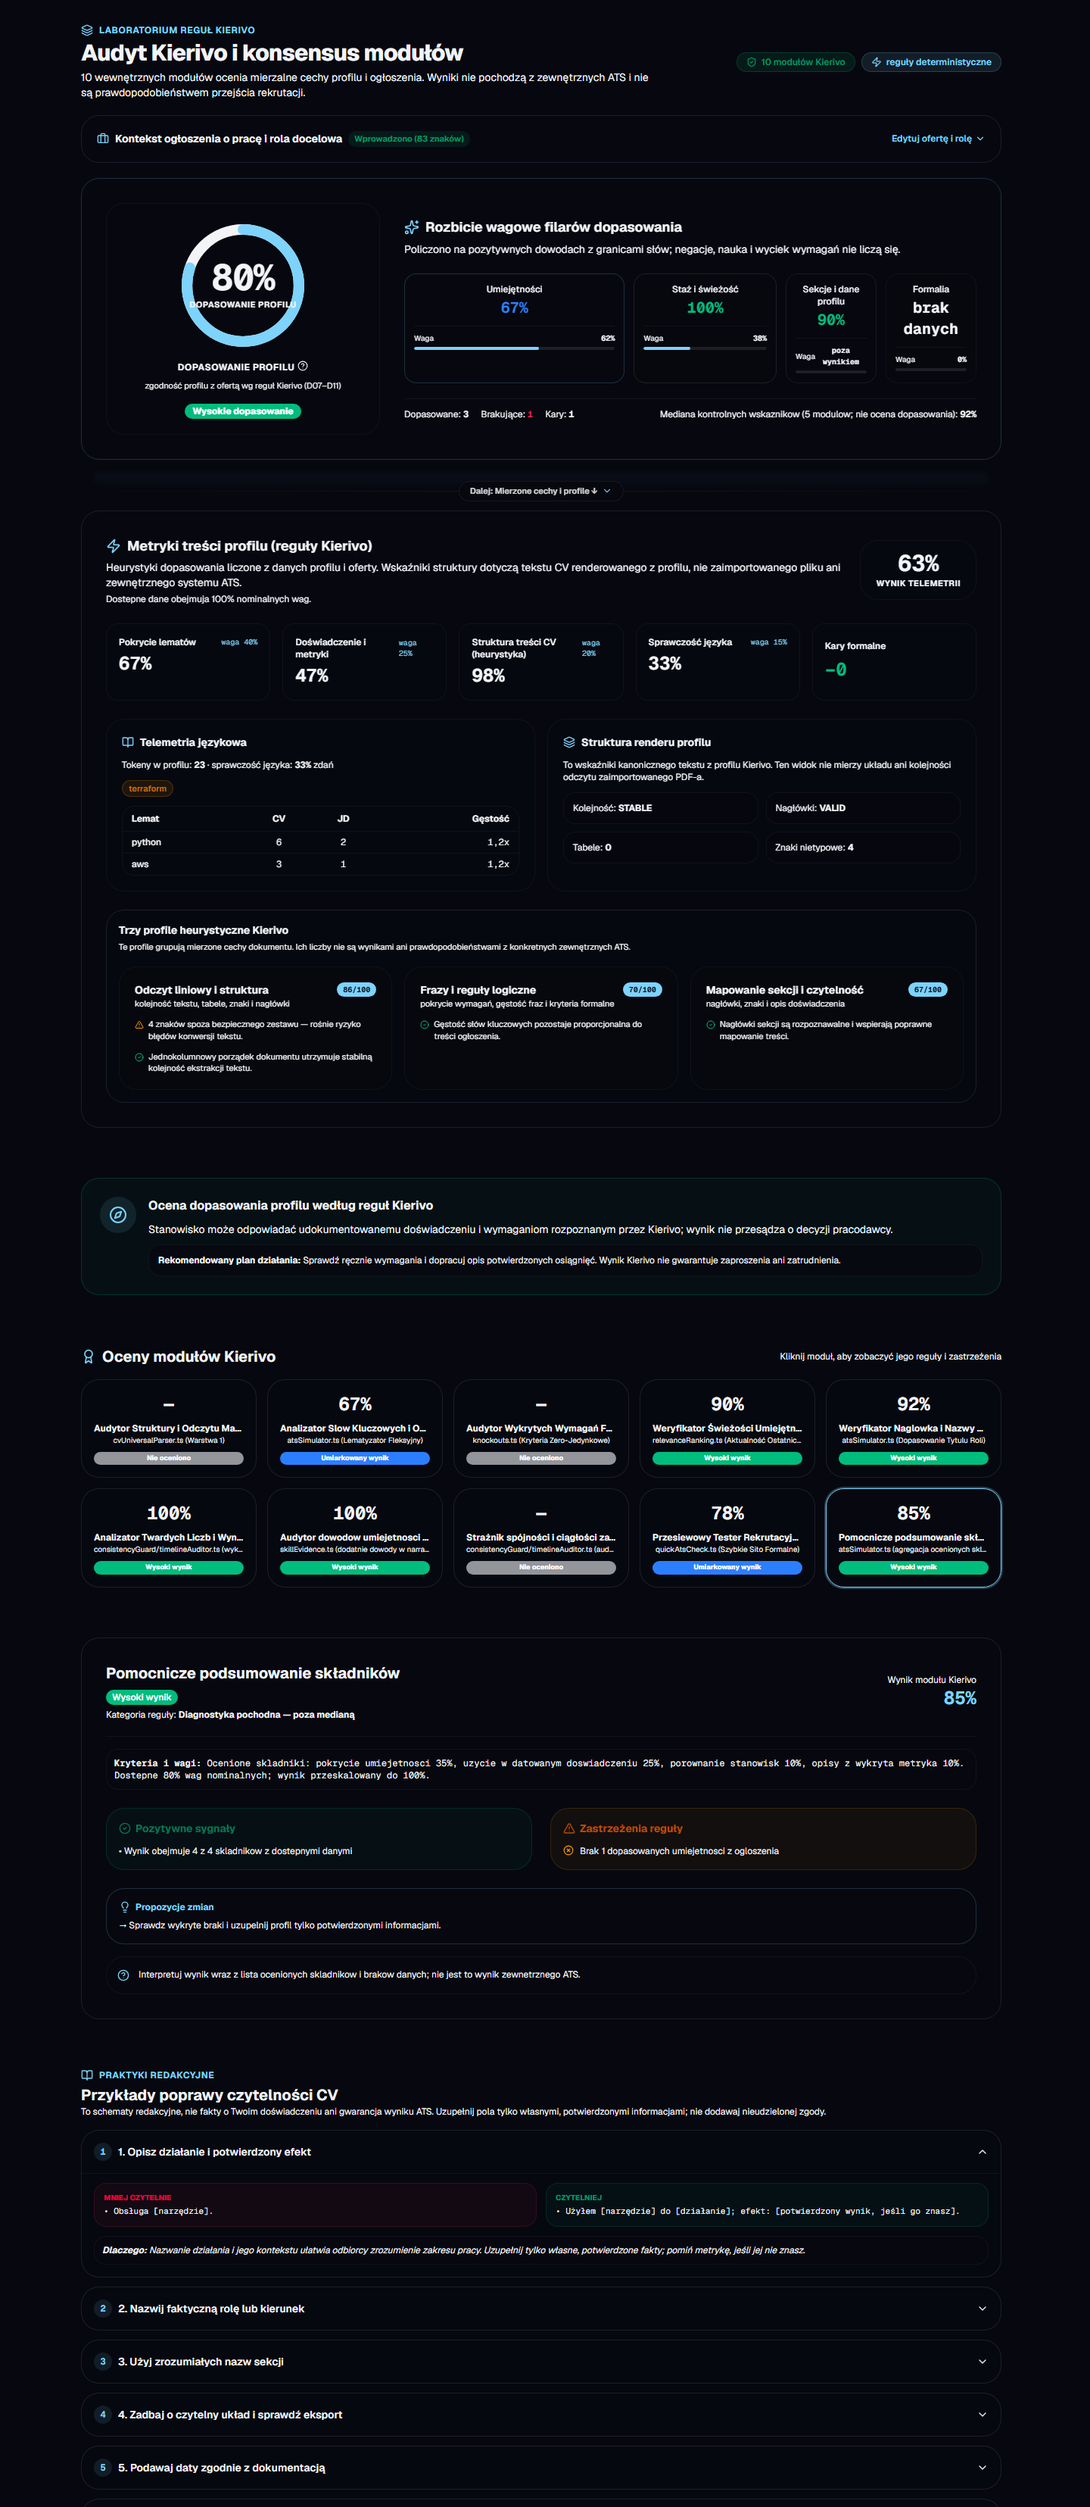
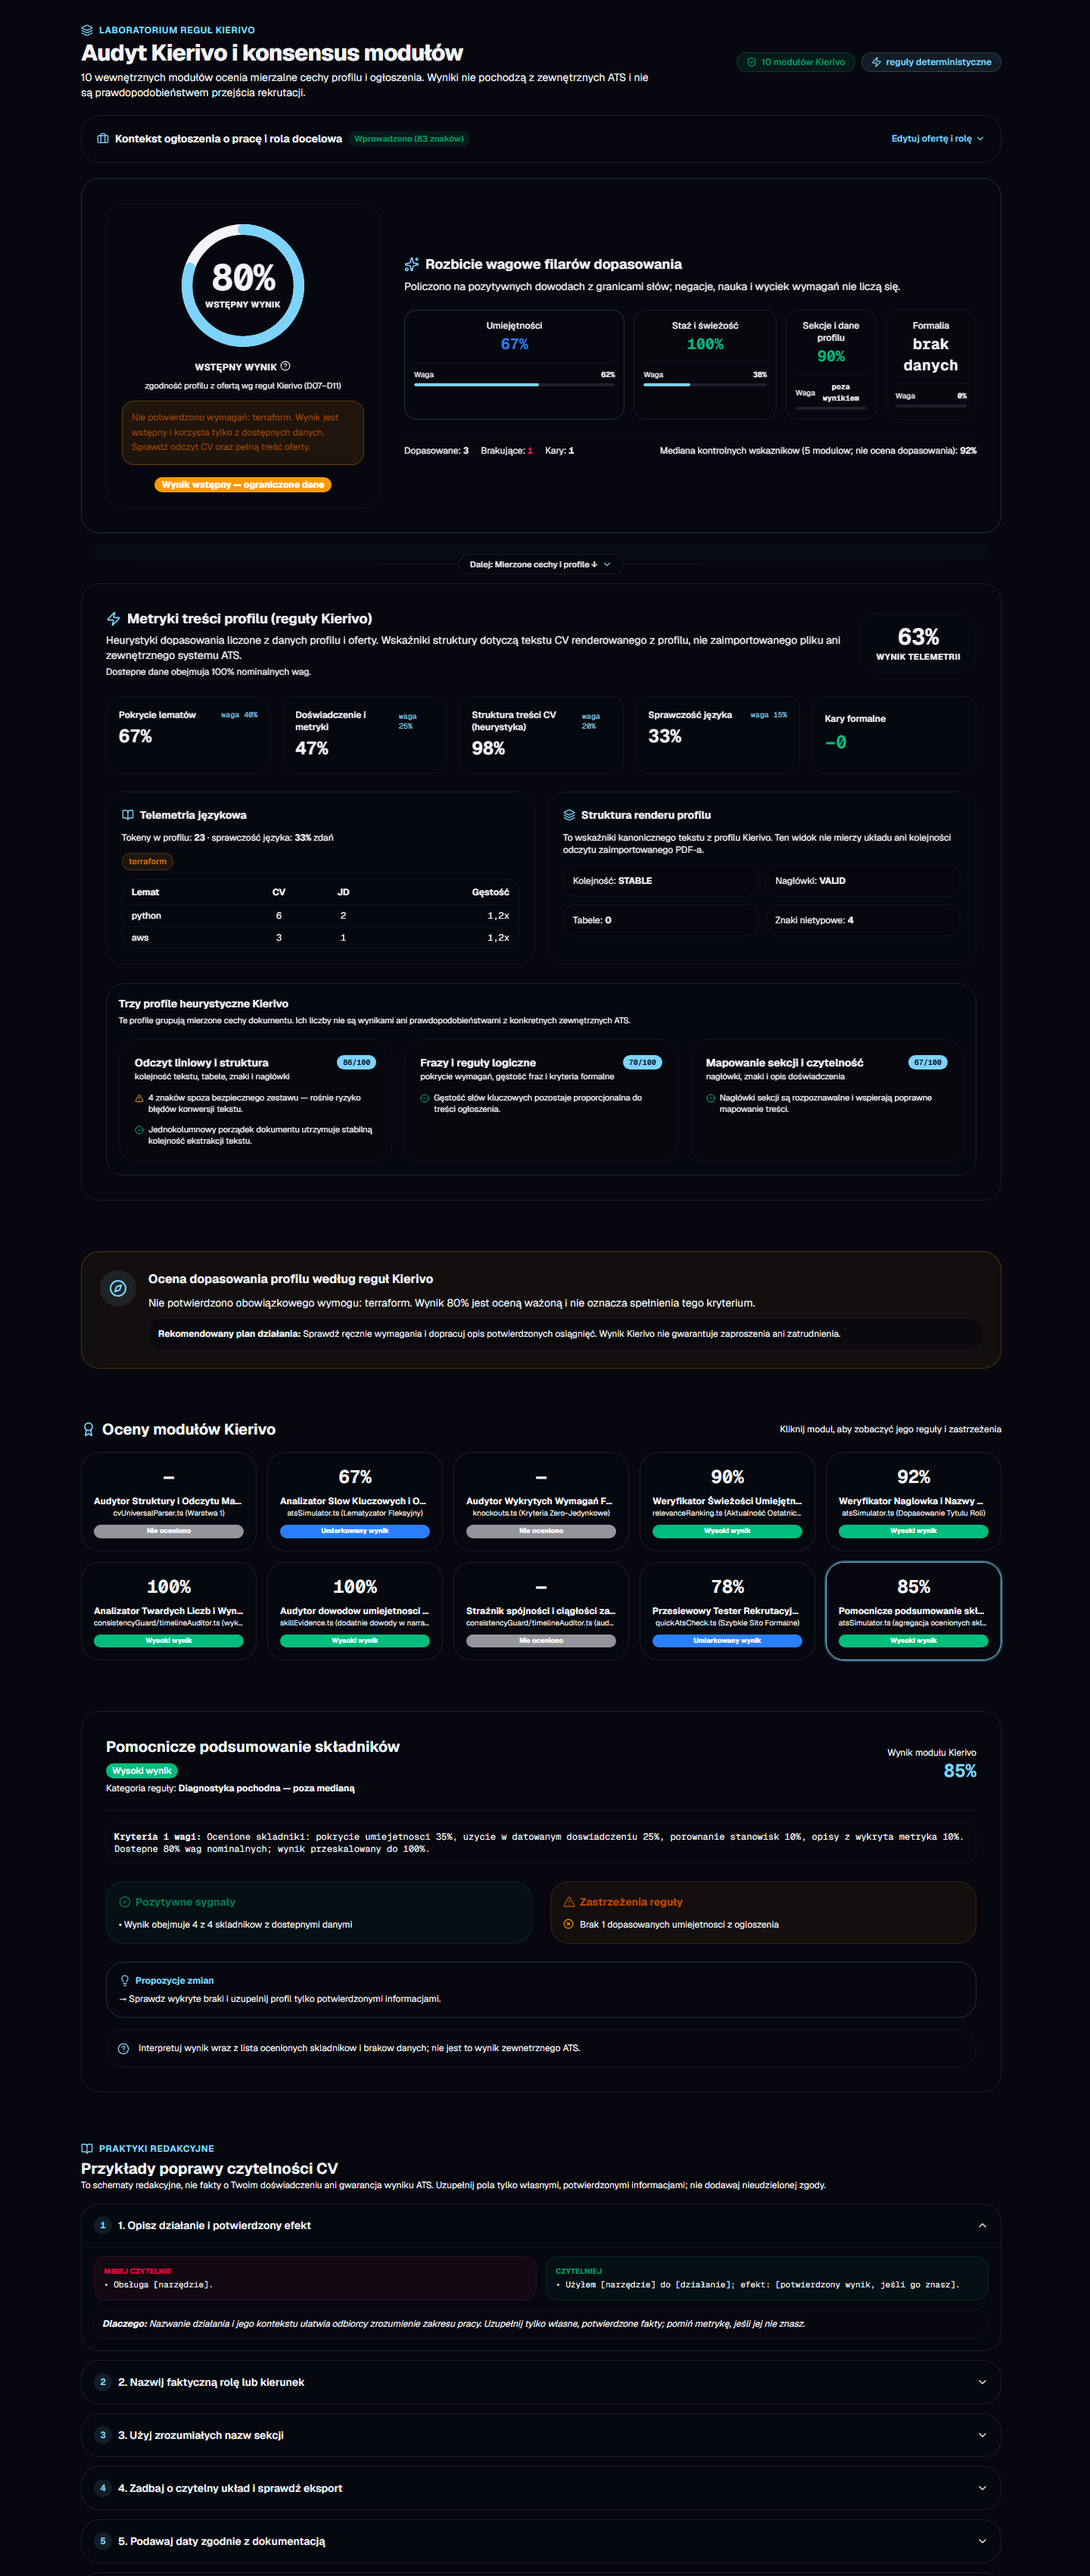
fix(ats): surface required skill gaps before positive fit labels

diff --git a/src/features/ats/AtsLabView.tsx b/src/features/ats/AtsLabView.tsx
@@ -21,7 +21,7 @@ import {
 import { MasterVault } from '../../types';
 import { simulateMultiEngineATS, AtsEngineResult } from '../../lib/atsSimulator';
 import { scoreCanonicalAts, getCanonicalScoreBand, CANONICAL_SCORE_BAND_LABELS, getUnmetBlockingRequirements } from '../../lib/canonicalAts';
-import { getCanonicalScoreMetricLabel, hasLimitedMatchEvidence } from '../../lib/matchInterpretation';
+import { getCanonicalScoreMetricLabel, getMatchInterpretation, hasLimitedMatchEvidence } from '../../lib/matchInterpretation';
 import { measureVaultCompleteness } from '../../lib/vaultCompleteness';
 import { formatDecimalPl } from '../../lib/pluralFormat';
 import { buildAtsTelemetryReport, STUFFING_DENSITY_THRESHOLD } from '../../lib/atsScorer';
@@ -155,11 +155,12 @@ export const AtsLabView: React.FC<AtsLabViewProps> = ({
   const scoreBand = isScorable ? getCanonicalScoreBand(scorableScore) : null;
   const profileCoverage = measureVaultCompleteness(vault).percent;
   const detectedRequirementCount = canonical.matchedRequirements.length + canonical.missingRequirements.length + canonical.unconfirmedRequirements.length;
+  const blockingRequirements = getUnmetBlockingRequirements(canonical);
   const limitedMatchEvidence = hasLimitedMatchEvidence({
     profileCompleteness: profileCoverage,
     totalRequirementCount: detectedRequirementCount,
     fitEvidenceAvailable: consensus.careerFitAdvice.assessment !== 'INSUFFICIENT_EVIDENCE',
-    blockingRequirements: getUnmetBlockingRequirements(canonical),
+    blockingRequirements,
     unconfirmedRequirements: canonical.unconfirmedRequirements,
   });
 
@@ -379,6 +380,7 @@ export const AtsLabView: React.FC<AtsLabViewProps> = ({
                 {canonical.unconfirmedRequirements.length > 0 && <>
                   Nie można potwierdzić: {canonical.unconfirmedRequirements.join(', ')}. Brak danych nie oznacza spełnienia ani niespełnienia tych wymogów.{' '}
                 </>}
+                {blockingRequirements.length > 0 && <>Nie potwierdzono wymagań: {blockingRequirements.join(', ')}. </>}
                 Wynik jest wstępny i korzysta tylko z dostępnych danych. Sprawdź odczyt CV oraz pełną treść oferty.
               </p>
             )}
@@ -408,7 +410,7 @@ export const AtsLabView: React.FC<AtsLabViewProps> = ({
               </span>
             ) : (
               <span className={`mt-4 rounded-full px-2.5 py-0.5 text-xs font-extrabold text-white ${
-                scoreBand === 'high' ? 'bg-emerald-500' : scoreBand === 'moderate' ? 'bg-blue-500' : 'bg-amber-500'
+                limitedMatchEvidence ? 'bg-amber-500' : scoreBand === 'high' ? 'bg-emerald-500' : scoreBand === 'moderate' ? 'bg-blue-500' : 'bg-amber-500'
               }`}>
                 {limitedMatchEvidence
                   ? 'Wynik wstępny — ograniczone dane'
@@ -639,7 +641,7 @@ export const AtsLabView: React.FC<AtsLabViewProps> = ({
       {isScorable && <>
       <ScrollContinuationHint targetId="ocena-dopasowania" label="Dalej: Ocena dopasowania profilu ↓" />
 
-      <div id="ocena-dopasowania" className={`scroll-mt-24 rounded-3xl border p-6 ${consensus.careerFitAdvice.assessment === 'PLAUSIBLE_FIT' ? 'border-emerald-500/20 bg-emerald-500/5' : consensus.careerFitAdvice.assessment === 'INSUFFICIENT_EVIDENCE' ? 'border-line bg-surface/60' : 'border-amber-500/25 bg-amber-500/5'}`}>
+      <div id="ocena-dopasowania" className={`scroll-mt-24 rounded-3xl border p-6 ${limitedMatchEvidence ? 'border-amber-500/25 bg-amber-500/5' : 'border-line bg-surface/60'}`}>
         <div className="flex items-start gap-4">
           <div className="rounded-2xl bg-brand/10 p-3 text-brand-fg"><Compass className="h-6 w-6" /></div>
           <div className="flex-1 space-y-2">
@@ -647,7 +649,12 @@ export const AtsLabView: React.FC<AtsLabViewProps> = ({
             {consensus.careerFitAdvice.assessment === 'INSUFFICIENT_EVIDENCE' && (
               <p className="text-xs font-semibold text-muted">Brak wystarczających danych o doświadczeniu</p>
             )}
-            <p className="text-sm leading-relaxed text-ink-muted">{consensus.careerFitAdvice.verdict}</p>
+            <p className="text-sm leading-relaxed text-ink-muted">{getMatchInterpretation({
+              score: scorableScore, activeSuggestionCount: 0, profileCompleteness: profileCoverage,
+              matchedRequirementCount: canonical.matchedRequirements.length, totalRequirementCount: detectedRequirementCount,
+              fitEvidenceAvailable: consensus.careerFitAdvice.assessment !== 'INSUFFICIENT_EVIDENCE',
+              blockingRequirements, unconfirmedRequirements: canonical.unconfirmedRequirements,
+            })}</p>
             <div className="rounded-xl border border-ink/5 bg-surface/80 p-3 text-xs text-ink">
               <strong>Rekomendowany plan działania:</strong> {consensus.careerFitAdvice.actionablePlan}
             </div>

diff --git a/src/lib/__tests__/canonicalAts.test.ts b/src/lib/__tests__/canonicalAts.test.ts
@@ -1,5 +1,5 @@
 import { describe, it, expect } from 'vitest';
-import { scoreCanonicalAts, recomputeCanonicalTotal, CANONICAL_WEIGHTS, getCanonicalScoreBand, CANONICAL_SCORE_BAND_LABELS, hasSufficientCvContent, hasCanonicalAtsScore } from '../canonicalAts';
+import { scoreCanonicalAts, recomputeCanonicalTotal, CANONICAL_WEIGHTS, getCanonicalScoreBand, CANONICAL_SCORE_BAND_LABELS, hasSufficientCvContent, hasCanonicalAtsScore, getUnmetBlockingRequirements } from '../canonicalAts';
 import { CANONICAL_ATS_SCORE_PROVENANCE } from '../../types';
 import { extractDynamicJdPhrases } from '../atsSimulator';
 import { createEmptyVault } from '../sampleVault';
@@ -31,6 +31,15 @@ function hist(id: string, text: string, start = '2020-01', end = '2024-01') {
 }
 
 const JD = 'We need Python developer. Requirements: Python, AWS, Docker.';
+
+it('brak obowiązkowej umiejętności ogranicza interpretację także przy wysokiej średniej', () => {
+  const candidate = vaultWith({ hard: ['Python', 'AWS'], history: [hist('python', 'Rozwijałem aplikacje Python i wdrażałem usługi AWS.')] });
+  const required = scoreCanonicalAts(candidate, 'Wymagane: Python, AWS, Terraform. Minimum 2 lata doświadczenia.');
+  expect(required.missingRequirements).toContain('terraform');
+  expect(getUnmetBlockingRequirements(required)).toContain('terraform');
+  const optional = scoreCanonicalAts(candidate, 'Wymagane: Python, AWS. Mile widziane: Terraform.');
+  expect(getUnmetBlockingRequirements(optional)).not.toContain('terraform');
+});
 
 describe('ekstrakcja wymagań z nagłówkiem oferty', () => {
   it('nie zamienia stanowiska i nazwy firmy w wymagane umiejętności', () => {

diff --git a/src/features/onboarding/QuickOnboardingFlow.tsx b/src/features/onboarding/QuickOnboardingFlow.tsx
@@ -94,14 +94,14 @@ function getResultStatusMeta(score: number, topProblems: TopProblem[], limitedEv
   if (blockingRequirements.length > 0) {
     return {
       statusLabel: 'Wymóg obowiązkowy niepotwierdzony',
-      headline: 'Sprawdź wymagane uprawnienie przed oceną aplikacji',
+      headline: 'Sprawdź brakujące wymagania przed oceną aplikacji',
       subline: `Profil nie potwierdza: ${blockingRequirements.join(', ')}. Wynik nie oznacza spełnienia tego warunku.`,
       cardClass: 'bg-warning-soft border-warning/30 text-warning-fg',
       badgeClass: 'bg-warning-soft text-warning-fg',
       icon: AlertTriangle,
       tips: [{
-        title: 'Sprawdź uprawnienie i treść oferty',
-        desc: 'Dodaj je do profilu tylko wtedy, gdy faktycznie je posiadasz. W przeciwnym razie traktuj je jako brak blokujący.',
+        title: 'Sprawdź dowody i treść oferty',
+        desc: 'Dodaj potwierdzenie do profilu tylko wtedy, gdy faktycznie spełniasz wymóg. Sam wynik liczbowy nie usuwa wykazanego braku.',
       }],
     };
   }

diff --git a/src/lib/canonicalAts.ts b/src/lib/canonicalAts.ts
@@ -102,11 +102,14 @@ export interface CanonicalAtsScore extends AtsCalculationTime {
   reason: string;
 }
 
-/** Jedno źródło prawdy dla formalnych braków, które oferta oznaczyła jako blokujące. */
+/** Rozpoznane braki wymagań ograniczają interpretację niezależnie od średniej.
+ * Kanon wyklucza atuty opcjonalne i przechowuje niewiadome osobno.
+ * Nazwa historyczna: blokuje pełną etykietę dopasowania, nie aplikowanie. */
 export function getUnmetBlockingRequirements(result?: CanonicalAtsScore): string[] {
-  return result?.formalFindings
+  if (!result) return [];
+  return [...new Set([...(result.missingRequirements ?? []), ...result.formalFindings
     .filter((finding) => finding.severity === 'knockout' && (finding.status ?? (finding.satisfied ? 'satisfied' : 'unsatisfied')) === 'unsatisfied')
-    .map((finding) => finding.label) ?? [];
+      .map((finding) => finding.label)])];
 }
 
 /** Wymogi wymagające danych, których profil obecnie nie przechowuje. */

diff --git a/src/lib/matchInterpretation.ts b/src/lib/matchInterpretation.ts
@@ -16,7 +16,7 @@ export interface MatchInterpretationInput {
   totalRequirementCount?: number;
   /** False oznacza brak podstaw do rzetelnej oceny dopasowania zawodowego. */
   fitEvidenceAvailable?: boolean;
-  /** Wymogi formalne o statusie knockout, których profil nie potwierdza. */
+  /** Rozpoznane wymagania (w tym umiejętności), których profil nie potwierdza. */
   blockingRequirements?: string[];
   /** Wymogi, których nie da się rozstrzygnąć na podstawie zapisanych danych. */
   unconfirmedRequirements?: string[];

diff --git a/AUDIT_CLOSURE.md b/AUDIT_CLOSURE.md
@@ -1,6 +1,27 @@
 # Kierivo Public Pre-Beta — odbiór ADR-152 / ADR-125
 
-Stan roboczy 13.10.2026: **BLOCKED — odbiór trwa; brak zgody na publikację**.
+Stan roboczy 14.10.2026: **BLOCKED — odbiór trwa; brak zgody na publikację**.
+
+Najnowszy zakres poprawek: brakująca wymagana umiejętność ogranicza pozytywną
+interpretację, tak jak brak formalny. Reprodukcja: Python/AWS bez Terraform,
+oferta wymaga wszystkich trzech; wcześniej 80% i „Wysokie dopasowanie”. Teraz
+laboratorium i pełny onboarding wskazują konkretny brak, bez tej etykiety.
+Wynik liczbowy nie został sztucznie obniżony ani przeliczony przez frontend.
+Atuty opcjonalne nadal nie są brakami, a niewiadome są przechowywane osobno.
+Test RED → GREEN; Vitest 2732 PASS / 1 SKIPPED (239 plików). Browser PASS:
+laboratorium, onboarding z Terraform oraz dotychczasowa regresja SEP G1.
+Dowody: `docs/evidence/ats-independent-aggregation.png` i
+`docs/evidence/ats-mandatory-skill-onboarding.png`. Nowa rewizja wymaga własnego CI.
+
+Ostatni potwierdzony pełny CI: HEAD `31b02d95440ce85c0994163c3ddf0b1ec50cd68d`,
+merge `83a1dbd01e84e4978098680df5d681950d6e5b5f`, Release Gate 38544174600 PASS.
+Późniejszy D17 `d5e7fa269bff41538a730cae29b89c933e19902a` uruchomił Gate 38553579369;
+stan w trakcie ostatniego sprawdzenia: IN_PROGRESS (nie PASS).
+
+Pozostałe blokery odbioru: pełne kryteria D17/D20 i ADR-143, zgodność podglądu/PDF,
+końcowy CI oraz rzeczywiste zależności na środowisku przywróconym przez właściciela.
+Nie wykonano merge/deploy ani zmiany produkcyjnych sekretów. Historyczne wyniki
+poniżej odnoszą się wyłącznie do podanych SHA, nie do bieżącego checkoutu.
 
 ## Zakres i punkt odniesienia
 
@@ -30,7 +51,7 @@ S0/S1 blokują; S2/S3 wymagają udokumentowanej akceptacji ryzyka.
 
 ## Aktualnie potwierdzone wyniki
 
-### Najnowszy odbiór — 13.10.2026, 23:06 CEST
+### Historyczny odbiór — 13.10.2026, 23:06 CEST
 
 **Decyzja: BLOCKED.** PR: https://github.com/krymszuch-stack/Kierivo/pull/142.
 Nie wykonano merge ani deploy. `main` ponownie pobrano po wznowieniu: nadal

diff --git a/docs/04.09.2026.md b/docs/04.09.2026.md
@@ -1670,3 +1670,4 @@ Przed zamknięciem audytu przejdź pozostałe scenariusze długich/niejednoznacz
 - ADR-143: kontakt nie podnosi dopasowania kompetencji. Canonical-v3 oddziela strukturę (waga 0); historia v1/v2 bez zmian. Główny onboarding: identyczne 78% z/bez kontaktu; zrzuty fit-contact-*-2026-10-14.png.
 - ADR-120: dwa agregaty nie głosują ponownie w medianie/średniej. RED 8 zamiast 6 modułów; GREEN jednostkowy i [rzeczywisty AtsLabView](evidence/ats-independent-aggregation.png). Adapter testowy respektuje SIGNIFICANT_GAPS przed pasmem diagnostycznym, bez zmiany oczekiwań scenariuszy.
 - Lokalnie 2731 PASS / 1 SKIPPED, lint/build PASS. CI dla wcześniejszego 31b02d9 PASS; bieżąca poprawka wymaga nowego CI. Przy okazji odtworzono wysoką etykietę mimo brakującego wymaganego Terraform — otwarta poprawka interpretacji, brak zgody na wydanie.
+- Kolejna poprawka: wspólna interpretacja uwzględnia również brakujące wymagane umiejętności, nie tylko formalne knockouty. Nie zmienia punktacji; atuty opcjonalne nie blokują etykiety, niewiadome pozostają osobno. RED → GREEN, 2732 PASS / 1 SKIPPED. Rzeczywiste laboratorium i pełny onboarding pokazują Terraform jako konkretny brak zamiast „Wysokiego dopasowania”; [dowód](evidence/ats-mandatory-skill-onboarding.png). Regresja SEP G1 również PASS. Nowy CI wymagany.
